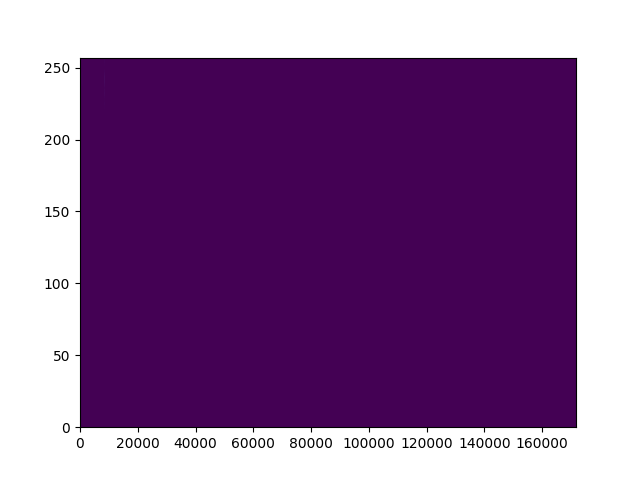
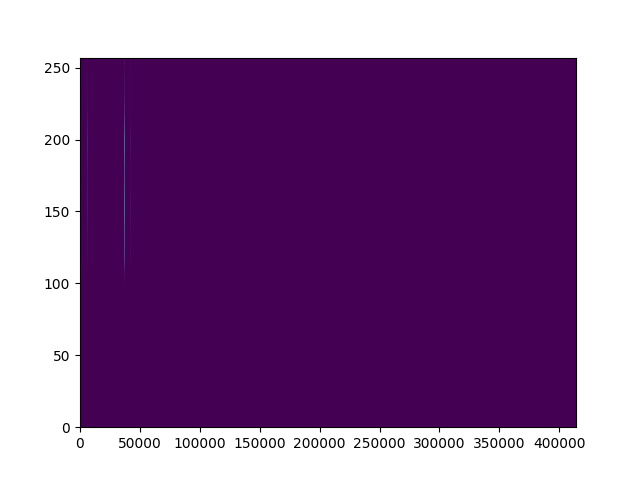
changed debug maps script to mask out galaxy and took out sweeps = 1

Changed region(s): [[0.1875, 0.9062, 0.9062, 0.9375]]

diff --git a/commander3/todscripts/firas/src/temperature_map/main.py b/commander3/todscripts/firas/src/temperature_map/main.py
@@ -13,8 +13,8 @@ from utils.config import gen_nyquistl
 T_CMB = 2.72548  # Fixsen 2009
 # channels = ["rh", "rl", "lh", "ll"]
 channels = ["ll"]
-# modes = ["ss", "sf", "ls", "lf", "fs", "fl"]
-modes = ["ss"]
+modes = ["ss", "sf", "ls", "lf", "fs", "fl"]
+# modes = ["ss"]
 
 sky_data = h5py.File(
     "/mn/stornext/u3/aimartin/d5/firas-reanalysis/Commander/commander3/todscripts/firas/data/sky_v4.1.h5",
@@ -59,25 +59,25 @@ sky_data.close()
 
 # using only ss data for now to test
 # make filter with true/false where mtm_length and mtm_speed are 0
-short_filter = mtm_length == 0
-slow_filter = mtm_speed == 0
+# short_filter = mtm_length == 0
+# slow_filter = mtm_speed == 0
 
-a_ical = a_ical[short_filter & slow_filter]
-b_ical = b_ical[short_filter & slow_filter]
-a_dihedral = a_dihedral[short_filter & slow_filter]
-b_dihedral = b_dihedral[short_filter & slow_filter]
-mtm_length = mtm_length[short_filter & slow_filter]
-mtm_speed = mtm_speed[short_filter & slow_filter]
-ifg["ll"] = ifg["ll"][short_filter & slow_filter]
-bol_cmd_bias["ll"] = bol_cmd_bias["ll"][short_filter & slow_filter]
-bol_volt["ll"] = bol_volt["ll"][short_filter & slow_filter]
-adds_per_group["ll"] = adds_per_group["ll"][short_filter & slow_filter]
-gain["ll"] = gain["ll"][short_filter & slow_filter]
-sweeps["ll"] = sweeps["ll"][short_filter & slow_filter]
+# a_ical = a_ical[short_filter & slow_filter]
+# b_ical = b_ical[short_filter & slow_filter]
+# a_dihedral = a_dihedral[short_filter & slow_filter]
+# b_dihedral = b_dihedral[short_filter & slow_filter]
+# mtm_length = mtm_length[short_filter & slow_filter]
+# mtm_speed = mtm_speed[short_filter & slow_filter]
+# ifg["ll"] = ifg["ll"][short_filter & slow_filter]
+# bol_cmd_bias["ll"] = bol_cmd_bias["ll"][short_filter & slow_filter]
+# bol_volt["ll"] = bol_volt["ll"][short_filter & slow_filter]
+# adds_per_group["ll"] = adds_per_group["ll"][short_filter & slow_filter]
+# gain["ll"] = gain["ll"][short_filter & slow_filter]
+# sweeps["ll"] = sweeps["ll"][short_filter & slow_filter]
 
 print(f"data loaded: {len(ifg['ll'])}")
 
-fits_data = fits.open(
+fits_data_ss = fits.open(
     "/mn/stornext/u3/aimartin/d5/firas-reanalysis/Commander/commander3/todscripts/firas/reference/FIRAS_CALIBRATION_MODEL_LLSS.FITS"
 )
 fnyq = gen_nyquistl(
@@ -89,19 +89,19 @@ channel = 3  # LL
 frec = 4 * (channel % 2) + scan_mode
 
 # optical transfer function
-otf = fits_data[1].data["RTRANSFE"][0] + 1j * fits_data[1].data["ITRANSFE"][0]
-otf = otf[np.abs(otf) > 0]
+otf_ss = fits_data_ss[1].data["RTRANSFE"][0] + 1j * fits_data_ss[1].data["ITRANSFE"][0]
+otf_ss = otf_ss[np.abs(otf_ss) > 0]
 
 # bolometer function
-tau = fits_data[1].data["TIME_CON"][0]
-Jo = fits_data[1].data["BOLPARM8"][0]
-Jg = fits_data[1].data["BOLPARM9"][0]
-Tbol = fits_data[1].data["BOLOM_B2"][0]
-T0 = fits_data[1].data["BOLPARM2"][0]
-R0 = fits_data[1].data["BOLPARM_"][0]
-rho = fits_data[1].data["BOLPARM5"][0]
-G1 = fits_data[1].data["BOLPARM3"][0]
-beta = fits_data[1].data["BOLPARM4"][0]
+tau_ss = fits_data_ss[1].data["TIME_CON"][0]
+Jo_ss = fits_data_ss[1].data["BOLPARM8"][0]
+Jg_ss = fits_data_ss[1].data["BOLPARM9"][0]
+Tbol_ss = fits_data_ss[1].data["BOLOM_B2"][0]
+T0_ss = fits_data_ss[1].data["BOLPARM2"][0]
+R0_ss = fits_data_ss[1].data["BOLPARM_"][0]
+rho_ss = fits_data_ss[1].data["BOLPARM5"][0]
+G1_ss = fits_data_ss[1].data["BOLPARM3"][0]
+beta_ss = fits_data_ss[1].data["BOLPARM4"][0]
 
 # plot ifgs over time
 plt.imshow(ifg["ll"].T, aspect="auto", extent=[0, len(ifg["ll"]), 0, len(ifg["ll"][0])])
@@ -137,7 +137,7 @@ if np.isnan(ifg["ll"]).any():
 
 print("converting interferograms to spectra")
 
-spec = ifg_to_spec(
+spec_ss = ifg_to_spec(
     ifg["ll"],
     mtm_speed,
     channel,
@@ -146,21 +146,23 @@ spec = ifg_to_spec(
     bol_volt["ll"],
     fnyq["icm"][frec],
     fnyq["hz"][frec],
-    otf,
-    Jo,
-    Jg,
-    Tbol,
-    rho,
-    R0,
-    T0,
-    beta,
-    G1,
-    tau,
+    otf_ss,
+    Jo_ss,
+    Jg_ss,
+    Tbol_ss,
+    rho_ss,
+    R0_ss,
+    T0_ss,
+    beta_ss,
+    G1_ss,
+    tau_ss,
 )
 
 print("plotting")
 
-plt.imshow(np.abs(spec).T, aspect="auto", extent=[0, len(spec), 0, len(spec[0])])
+plt.imshow(
+    np.abs(spec_ss).T, aspect="auto", extent=[0, len(spec_ss), 0, len(spec_ss[0])]
+)
 plt.savefig("../../output/tests/spectra_diff_over_time.png")
 plt.clf()
 
@@ -175,39 +177,43 @@ f_ghz = f_icm * c * 1e-9
 ical = (
     a_ical + b_ical
 ) / 2  # doing the mean between the two sides for now, will be fitted later
-bb_ical = planck(f_ghz[: len(spec)], ical)
+bb_ical = planck(f_ghz[: len(spec_ss)], ical)
 # switching the sign for when the ical has higher temp than T_CMB
 # bb_ical[ical > T_CMB] = -1 * bb_ical[ical > T_CMB]
-ical_emiss = fits_data[1].data["RICAL"][0] + 1j * fits_data[1].data["IICAL"][0]
-ical_emiss = ical_emiss[: len(spec)]
+ical_emiss_ss = fits_data_ss[1].data["RICAL"][0] + 1j * fits_data_ss[1].data["IICAL"][0]
+ical_emiss_ss = ical_emiss_ss[: len(spec_ss)]
 
 # dihedral spectrum
 dihedral = (a_dihedral + b_dihedral) / 2  # same for dihedral
-bb_dihedral = planck(f_ghz[: len(spec)], dihedral)
-dihedral_emiss = (
-    fits_data[1].data["RDIHEDRA"][0] + 1j * fits_data[1].data["IDIHEDRA"][0]
+bb_dihedral = planck(f_ghz[: len(spec_ss)], dihedral)
+dihedral_emiss_ss = (
+    fits_data_ss[1].data["RDIHEDRA"][0] + 1j * fits_data_ss[1].data["IDIHEDRA"][0]
 )
-dihedral_emiss = dihedral_emiss[: len(spec)]
+dihedral_emiss_ss = dihedral_emiss_ss[: len(spec_ss)]
 
-sky = (
-    spec
+sky_ss = (
+    spec_ss
     - (
-        (bb_ical * ical_emiss)[:, : len(spec[0])]
-        + (bb_dihedral * dihedral_emiss)[:, : len(spec[0])]
+        (bb_ical * ical_emiss_ss)[:, : len(spec_ss[0])]
+        + (bb_dihedral * dihedral_emiss_ss)[:, : len(spec_ss[0])]
     )
-    / otf[np.newaxis, :]
+    / otf_ss[np.newaxis, :]
 )
 
 print("saving sky")
 
 # save the sky
-np.save("../../output/data/sky.npy", sky)
+np.save("../../output/data/sky.npy", sky_ss)
 
 print("plotting sky")
 
 # plot the sky
 plt.imshow(
-    np.abs(sky).T, aspect="auto", extent=[0, len(sky), 0, len(sky[0])], vmax=500, vmin=0
+    np.abs(sky_ss).T,
+    aspect="auto",
+    extent=[0, len(sky_ss), 0, len(sky_ss[0])],
+    vmax=500,
+    vmin=0,
 )
 plt.savefig("../../output/plots/sky_over_time.png")
 plt.clf()

diff --git a/commander3/todscripts/firas/src/temperature_map/debug_maps.py b/commander3/todscripts/firas/src/temperature_map/debug_maps.py
@@ -1,7 +1,7 @@
 import h5py
-import healpy as hp
 import matplotlib.pyplot as plt
 import numpy as np
+from astropy.io import fits
 
 # m = hp.fitsfunc.read_map(
 #     "/mn/stornext/u3/aimartin/d5/firas-reanalysis/Commander/commander3/todscripts/firas/output/maps/fits/0179.fits",
@@ -11,15 +11,19 @@ import numpy as np
 # plt.show()
 
 
-sky = np.load("../../output/data/sky.npy")
+sky = np.load(
+    "/mn/stornext/u3/aimartin/d5/firas-reanalysis/Commander/commander3/todscripts/firas/output/data/sky.npy"
+)
 data = h5py.File(
     "/mn/stornext/u3/aimartin/d5/firas-reanalysis/Commander/commander3/todscripts/firas/data/sky_v4.1.h5",
     "r",
 )
+mask = fits.open("BP_CMB_I_analysis_mask_n1024_v2.fits")
+mask = mask[1].data.astype(int)
+print(mask)
 
-print(sky.shape)
-
-spec = np.mean(np.abs(sky[:, 1:]), axis=1)
+spec = np.max(np.abs(sky[:, 1:]), axis=1)
+pix_gal = np.array(data["df_data/pix_gal"]).astype(int)
 
 variable_names = [
     "a_dihedral",
@@ -62,6 +66,21 @@ for name in channel_dependent:
     variables[name] = np.array(data["df_data/" + name + "_ll"][()])
 
 print(len(variables.keys()))
+
+short_filter = variables["mtm_length"] == 0
+slow_filter = variables["mtm_speed"] == 0
+
+for name in variables.keys():
+    variables[name] = variables[name][short_filter & slow_filter]
+
+pix_gal = pix_gal[short_filter & slow_filter]
+
+# remove data inside the mask
+for name in variables.keys():
+    variables[name] = variables[name][mask[pix_gal] == 1]
+
+# spec = spec[short_filter & slow_filter] - this filter already comes from main.py
+spec = spec[mask[pix_gal] == 1]
 
 fig, ax = plt.subplots(6, 6, figsize=(20, 20), sharex=True)
 

diff --git a/commander3/todscripts/firas/src/data_prep/data_prep_v4.py b/commander3/todscripts/firas/src/data_prep/data_prep_v4.py
@@ -292,10 +292,10 @@ for channel in channels:
         print(np.sum(np.isnan(merged_df[f"adds_per_group_{channel}"])))
     else:
         print(f"No nans in adds_per_group (checkpoint 3, channel {channel})")
-    # sweeps - TODO: CHECK IF 1 IS A VALID VALUE
+    # sweeps
     merged_df = merged_df[
-        (merged_df[f"sweeps_{channel}"] == 1)
-        | (merged_df[f"sweeps_{channel}"] == 4)
+        # (merged_df[f"sweeps_{channel}"] == 1) |
+        (merged_df[f"sweeps_{channel}"] == 4)
         | (merged_df[f"sweeps_{channel}"] == 16)
     ]
 
@@ -633,7 +633,7 @@ sky_variables = [
 ]
 
 # saving to a h5 file
-with tb.open_file("./../../data/sky_v4.1.h5", mode="w") as h5file:
+with tb.open_file("./../../data/sky_v4.2.h5", mode="w") as h5file:
     group = h5file.create_group("/", "df_data", "Sky Data")
 
     h5file.create_array(group, "gmt", gmt_str_sky)
